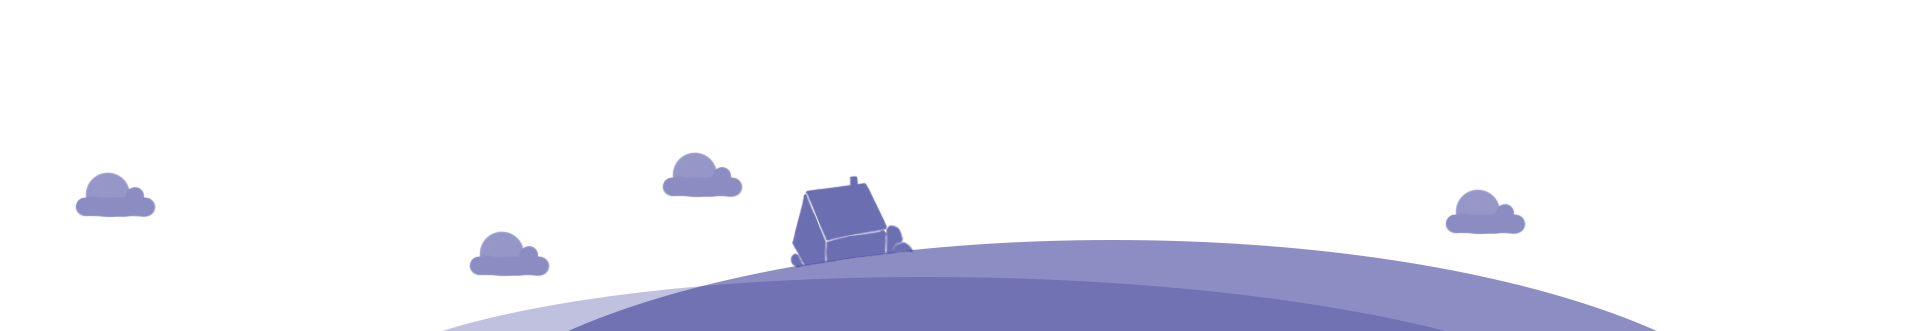
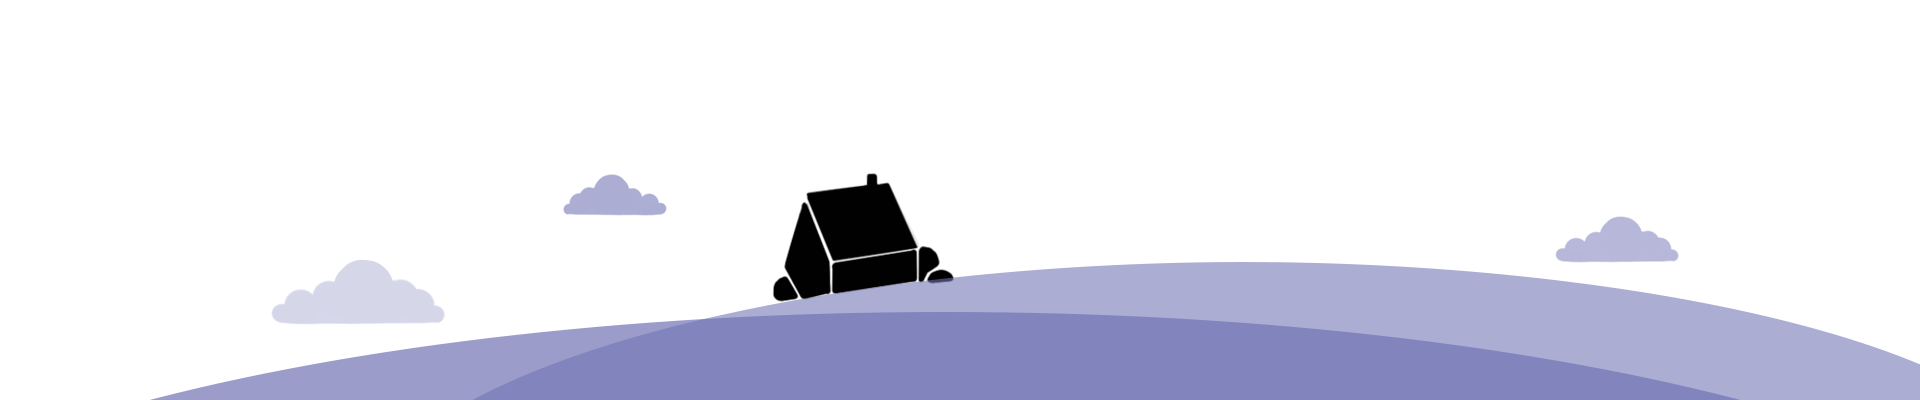
update clfss="dreadcrumb-section" in all file, Images added: bread-bg-day, -night, -evening

Changed region(s): [[0.0625, 0.423, 1.0, 1.0], [0.0312, 0.5136, 0.0938, 0.6647]]

diff --git a/web/css/custom.css b/web/css/custom.css
@@ -71,16 +71,16 @@
 }
 /*HEADER_WITH_CLOUDS*/
 .header_clouds_mo{
-    background: #a6e1ec url(../images/class1/bread-bg.png) no-repeat scroll 0 0 / cover;
+    background: #a6e1ec url(../images/class1/bread-bg-day.png) no-repeat scroll 0 0 / cover;
 }
 .header_clouds_day {
-    background: #a6e1ec url(../images/class1/bread-bg.png) no-repeat scroll 0 0 / cover;
+    background: #a6e1ec url(../images/class1/bread-bg-day.png) no-repeat scroll 0 0 / cover;
 }
 .header_clouds_night {
-    background: #013394 url(../images/class1/bread-bg.png) no-repeat scroll 0 0 / cover;
+    background: #013394 url(../images/class1/bread-bg-night.png) no-repeat scroll 0 0 / cover;
 }
 .header_clouds_evening{
-    background: #8a82f4 url(../images/class1/bread-bg.png) no-repeat scroll 0 0 / cover;
+    background: #8a82f4 url(../images/class1/bread-bg-evening.png) no-repeat scroll 0 0 / cover;
 }
 
 /*ROUTINE*/

diff --git a/web/css/style.css b/web/css/style.css
@@ -1416,7 +1416,7 @@ button.primary-btn span{
 .breadcrumb-section{
     position: relative;
     background: #a6e1ec url(../images/class1/bread-bg.png) no-repeat scroll 0 0 / cover;
-    padding: 62px 0 55px;
+    padding: 205px 0 55px;
 }
 
 .breadcrumb-content{

diff --git a/views/site/event.php b/views/site/event.php
@@ -6,111 +6,10 @@
  * Time: 0:57
  */
    ?>
-        <!-- Header Area -->
-        <header class="header-area inner-page">
-            <!-- Header Top Area -->
-            <section class="header-top <?php echo isset($css['colour_line_top'])?$css['colour_line_top']:''?>">
-                <div class="container">
-                    <div class="row">
-                        <div class="col-sm-12 col-xs-12">
-                            <div class="header-elements pull-right">
-                                <ul class="social-icon pull-left">
-                                    <li><a href="#"><i class="fa fa-facebook"></i></a></li>
-                                    <li><a href="#"><i class="fa fa-twitter"></i></a></li>
-                                    <li><a href="#"><i class="fa fa-google-plus"></i></a></li>
-                                    <li><a href="#"><i class="fa fa-instagram"></i></a></li>
-                                </ul>
-                                <div class="language pull-left">
-                                    <a href="#">
-                                        <i class="icon-translator"></i>
-                                        <span>English</span>
-                                        <i class="fa fa-angle-down"></i>
-                                    </a>
-                                </div>
-                                <div class="login-or-signup pull-left">
-                                    <a href="#"><i class="icon-user"></i><span>Login/sign up</span></a>
-                                </div>
-                            </div>
-                        </div>
-                    </div>
-                </div>
-            </section>
-            <!-- /.header-top -->
-            <nav class="navigation">
-                <div class="container">
-                    <div class="row">
-                        <div class="col-sm-12 col-xs-12">
-                            <div class="logo pull-left">
-                                <a href="index.php"><img alt="Kidzy" src="images/home1/logo.png"></a>
-                            </div>
-                            <ul class="main-menu pull-right">
-                                <li class="menu-has-child">
-                                    <a href="index.php">Home</a>
-<!--                                    <ul>-->
-<!--                                        <li><a href="index2.html">Home 2</a></li>-->
-<!--                                        <li><a href="index3.html">Home 3</a></li>-->
-<!--                                    </ul>-->
-                                </li>
-                                <li><a href="about-us.php">About us</a></li>
-                                <li class="menu-has-child">
-                                    <a href="#">Pages</a>
-                                    <ul>
-                                        <li>
-                                            <a href="event.php">Event</a>
-                                            <ul>
-                                                <li><a href="event-details.php">Event Details</a></li>
-                                            </ul>
-                                        </li>
-                                        <li><a href="routine.php">Routine</a></li>
-                                        <li><a href="contact.php">Contact</a></li>
-                                        <li><a href="404.php">404</a></li>
-                                        <li><a href="coming-soon.php">Coming Soon</a></li>
-                                    </ul>
-                                </li>
-                                <li><a href="shortcode.php">Features</a></li>
-                                <li class="menu-has-child">
-                                    <a href="class.php">Classes</a>
-                                    <ul>
-                                        <li><a href="class-details.php">Classes Details</a></li>
-                                    </ul>
-                                </li>
-                                <li class="menu-has-child">
-                                    <a href="blog.php">Blog</a>
-                                    <ul>
-                                        <li><a href="blog-details.php">Blog Details</a></li>
-                                    </ul>
-                                </li>
-                                <li class="menu-has-child">
-                                    <a href="teacher.php">Teacher</a>
-                                    <ul>
-                                        <li><a href="teacher-details.php">Teacher Details</a></li>
-                                    </ul>
-                                </li>
-                                <li>
-                                    <a href="#" id="search-pop"><i class="fa fa-search"></i></a>
-                                </li>
-                            </ul>
-                            <div class="mobile-menu hidden-lg hidden-md hidden-sm">
-                                <span></span>
-                                <span></span>
-                                <span></span>
-                                <span></span>
-                            </div>
-                        </div>
-                    </div>
-                </div>
-                <div class="search-area">
-                    <form action="#" method="post">
-                        <input type="search" name="search" placeholder="Enter your Search Text Here....">
-                    </form>
-                    <a href="#" class="search-close"><i class="fa fa-times"></i></a>
-                </div>
-            </nav>
-        </header>
-        <!-- /.header-area -->
+
 
         <!-- Breadcrumb  -->
-        <section class="breadcrumb-section <?php echo isset($css['header'])?$css['header']:''?>">
+        <section class="breadcrumb-section <?php echo \app\controllers\SiteController::getCssStyle()['header'];?>">
             <div class="container">
                 <div class="row">
                     <div class="col-sm-12 col-xs-12 text-center">

diff --git a/views/site/class-details.php b/views/site/class-details.php
@@ -6,7 +6,7 @@
  * Time: 1:10
  */?>
 <!-- Breadcrumb  -->
-<section class="breadcrumb-section <?php echo isset($css['header'])?$css['header']:''?>">
+<section class="breadcrumb-section <?php echo \app\controllers\SiteController::getCssStyle()['header'];?>">
     <div class="container">
         <div class="row">
             <div class="col-sm-12 col-xs-12 text-center">

diff --git a/views/site/teacher-details.php b/views/site/teacher-details.php
@@ -6,7 +6,7 @@
  * Time: 1:26
  */?>
 <!-- Breadcrumb  -->
-<section class="breadcrumb-section <?php echo isset($css['header'])?$css['header']:''?>">
+<section class="breadcrumb-section <?php echo \app\controllers\SiteController::getCssStyle()['header'];?>">
     <div class="container">
         <div class="row">
             <div class="col-sm-12 col-xs-12 text-center">

diff --git a/views/site/blog-details.php b/views/site/blog-details.php
@@ -7,7 +7,7 @@
  */
 ?>
 <!-- Breadcrumb  -->
-<section class="breadcrumb-section <?php echo isset($css['header'])?$css['header']:''?>">
+<section class="breadcrumb-section <?php echo \app\controllers\SiteController::getCssStyle()['header'];?>">
     <div class="container">
         <div class="row">
             <div class="col-sm-12 col-xs-12 text-center">

diff --git a/views/site/teacher.php b/views/site/teacher.php
@@ -7,7 +7,7 @@
  */
 ?>
 <!-- Breadcrumb  -->
-<section class="breadcrumb-section <?php echo isset($css['header'])?$css['header']:''?>">
+<section class="breadcrumb-section <?php echo \app\controllers\SiteController::getCssStyle()['header'];?>">
     <div class="container">
         <div class="row">
             <div class="col-sm-12 col-xs-12 text-center">

diff --git a/views/site/contact.php b/views/site/contact.php
@@ -9,7 +9,7 @@
 ?>
 
 <!-- Breadcrumb  -->
-<section class="breadcrumb-section <?php echo isset($css['header'])?$css['header']:''?>">">
+<section class="breadcrumb-section <?php echo \app\controllers\SiteController::getCssStyle()['header'];?>">
     <div class="container">
         <div class="row">
             <div class="col-sm-12 col-xs-12 text-center">

diff --git a/views/site/blog.php b/views/site/blog.php
@@ -8,7 +8,7 @@
 ?>
 
 <!-- Breadcrumb  -->
-<section class="breadcrumb-section <?php echo isset($css['header'])?$css['header']:''?>">
+<section class="breadcrumb-section <?php echo \app\controllers\SiteController::getCssStyle()['header'];?>">
     <div class="container">
         <div class="row">
             <div class="col-sm-12 col-xs-12 text-center">

diff --git a/views/site/event-details.php b/views/site/event-details.php
@@ -8,7 +8,7 @@
 ?>
 
 <!-- Breadcrumb  -->
-<section class="breadcrumb-section <?php echo isset($css['header'])?$css['header']:''?>">
+<section class="breadcrumb-section <?php echo \app\controllers\SiteController::getCssStyle()['header'];?>">
     <div class="container">
         <div class="row">
             <div class="col-sm-12 col-xs-12 text-center">

diff --git a/views/site/routine.php b/views/site/routine.php
@@ -9,7 +9,7 @@
 ?>
 
 <!-- Breadcrumb  -->
-<section class="breadcrumb-section <?php echo isset($css['header'])?$css['header']:''?>">
+<section class="breadcrumb-section <?php echo \app\controllers\SiteController::getCssStyle()['header'];?>">
     <div class="container">
         <div class="row">
             <div class="col-sm-12 col-xs-12 text-center">

diff --git a/views/site/class.php b/views/site/class.php
@@ -8,7 +8,7 @@
 ?>
 
 <!-- Breadcrumb  -->
-<section class="breadcrumb-section<?php echo isset($css['header'])?$css['header']:''?>">
+<section class="breadcrumb-section <?php echo \app\controllers\SiteController::getCssStyle()['header'];?>">
     <div class="container">
         <div class="row">
             <div class="col-sm-12 col-xs-12 text-center">
